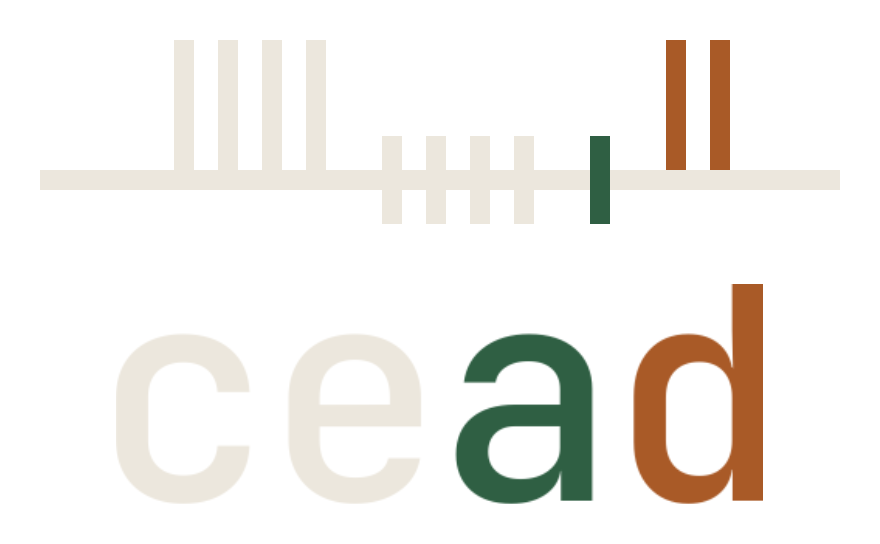
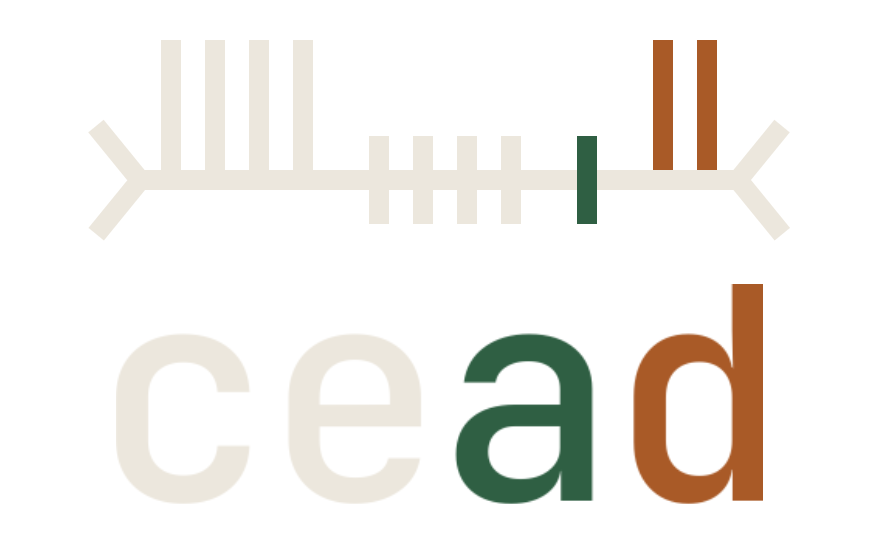
Close the mark with feather marks and add a light-mode lockup

diff --git a/README.md b/README.md
@@ -1,5 +1,8 @@
 <p align="center">
-  <img src="assets/lockup.png" width="220" alt="cead"><br>
+  <picture>
+    <source media="(prefers-color-scheme: light)" srcset="assets/lockup-light.png">
+    <img src="assets/lockup.png" width="220" alt="cead">
+  </picture><br>
   <em>cead</em> (Irish: permission; "kyad")
 </p>
 
